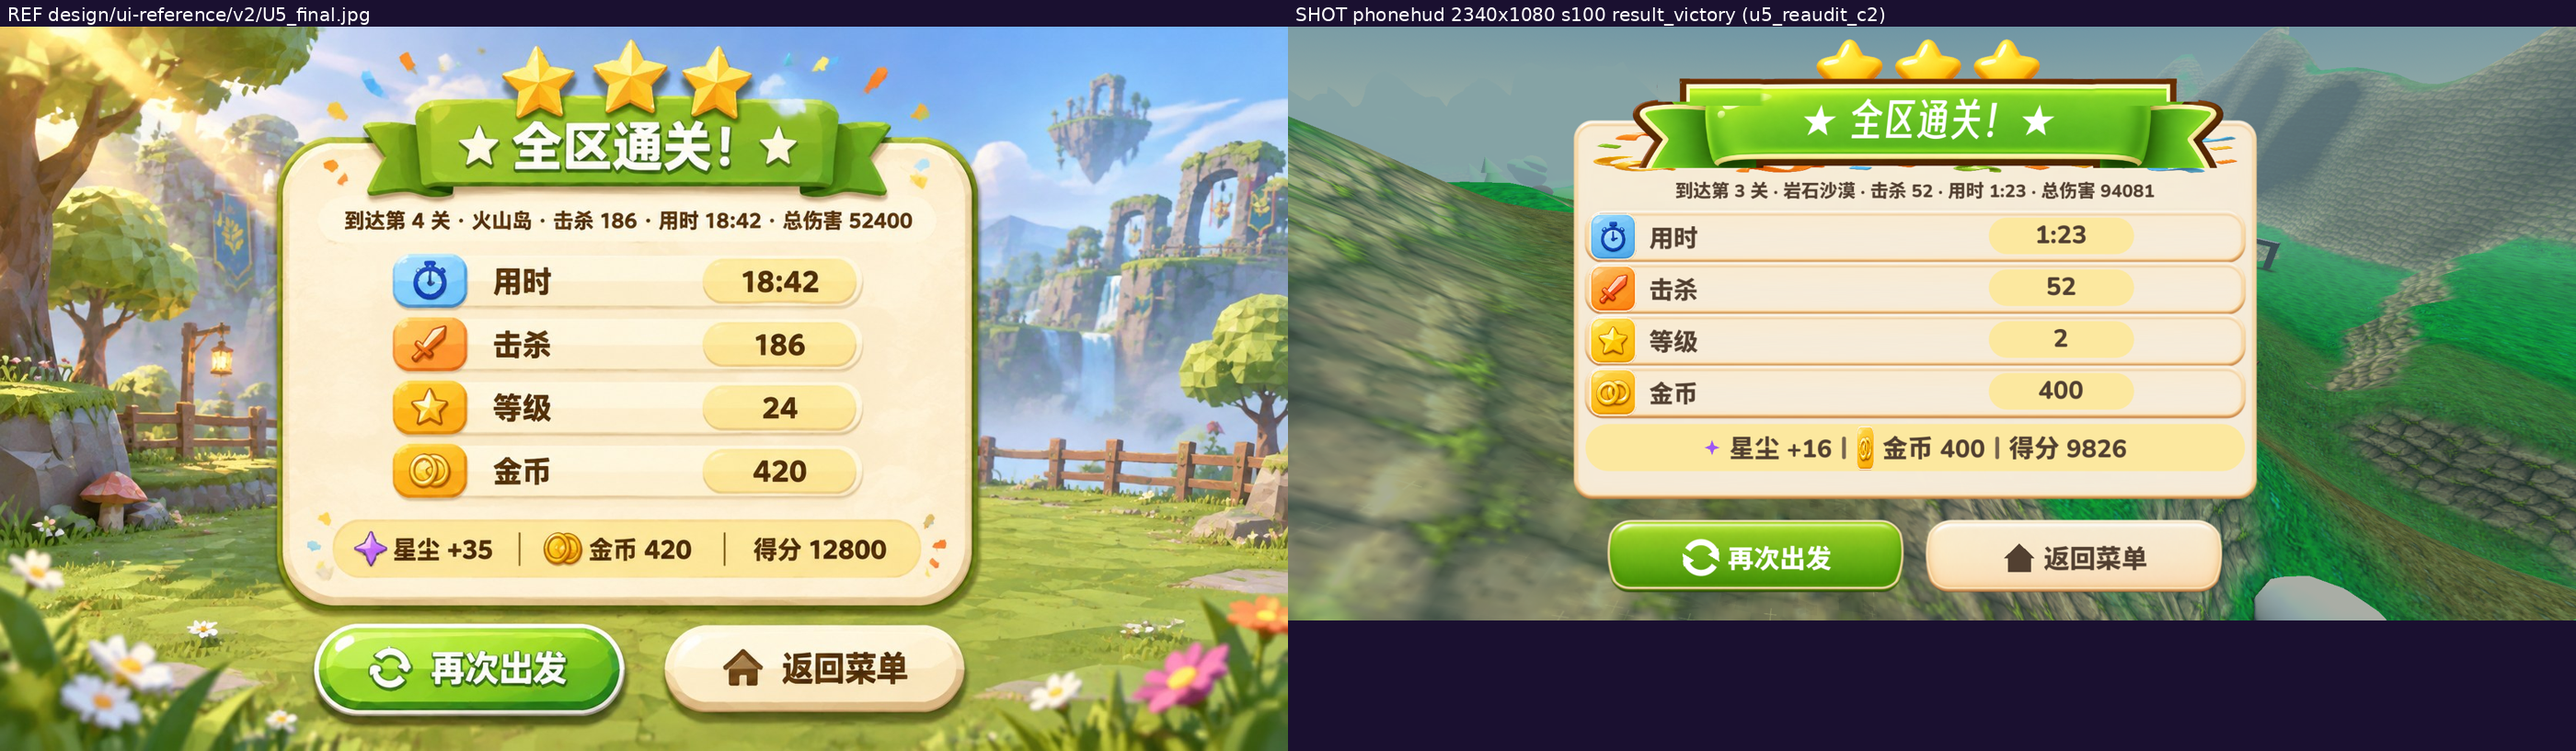
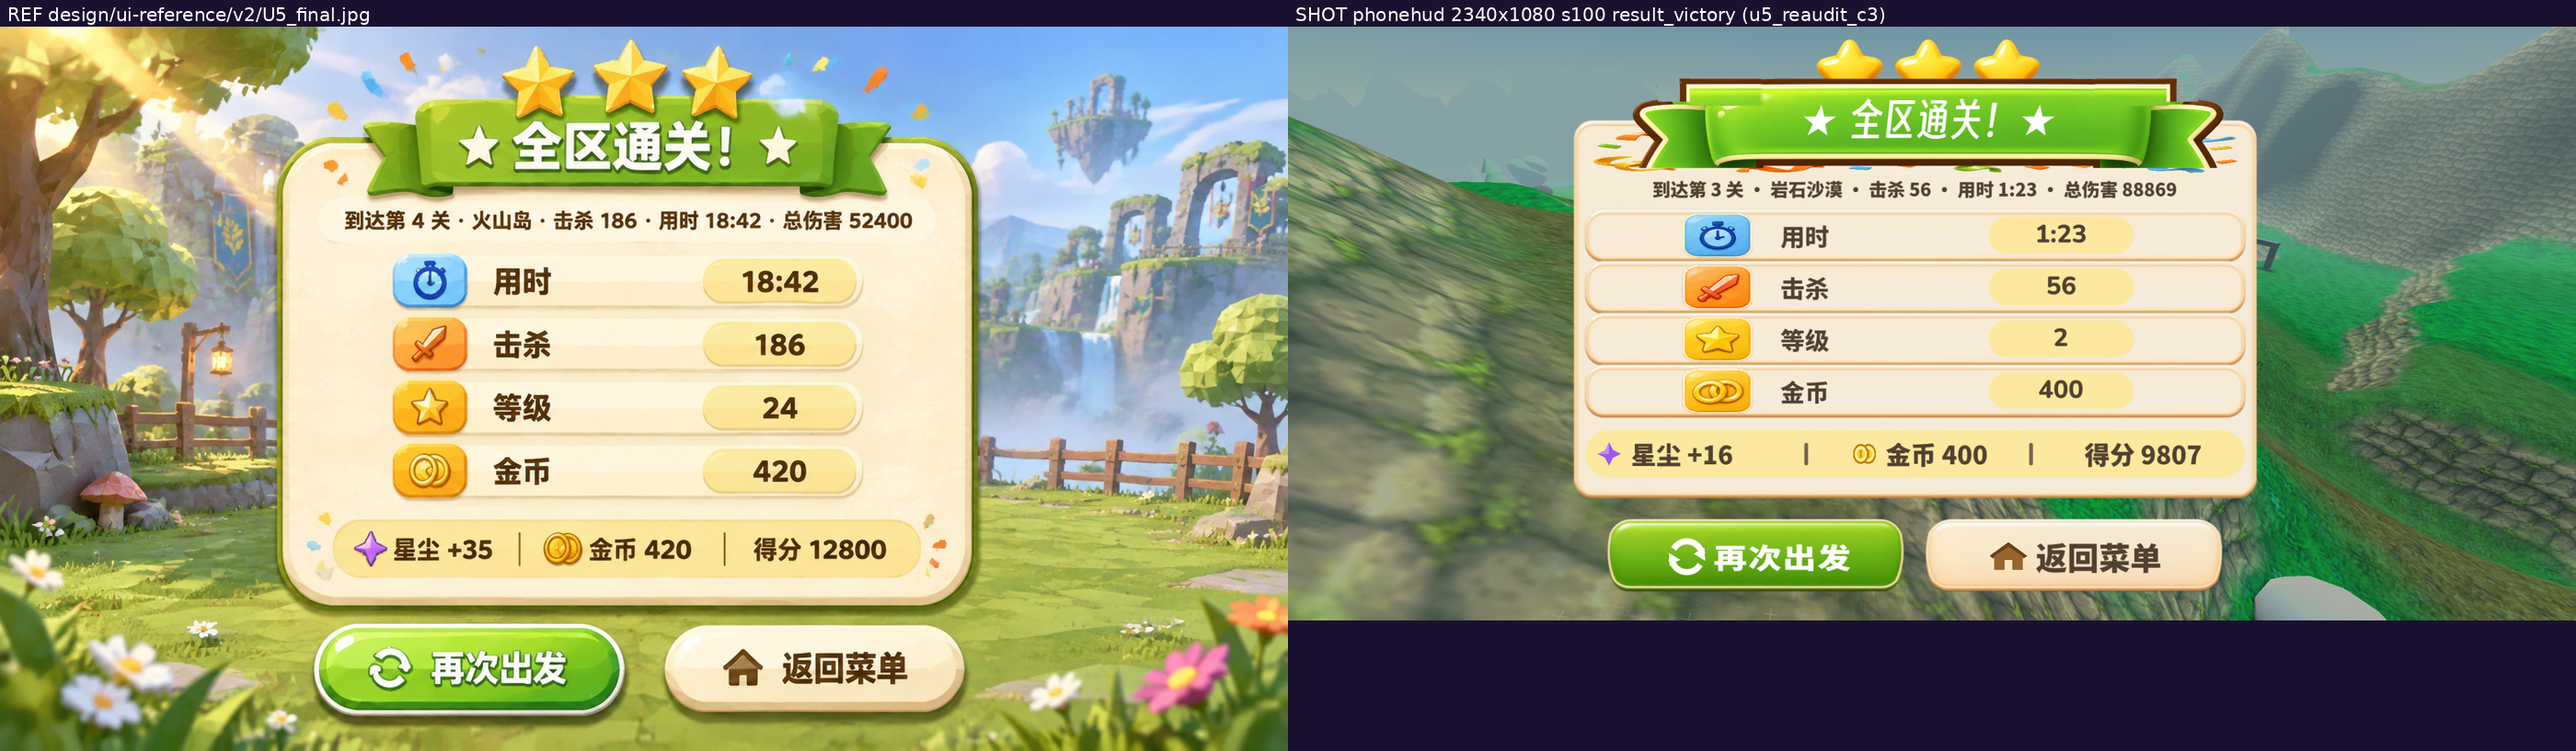
Ledger: U5 re-audit round 3 verdict (not closed), round-4 brief drafted; compare U5/U5_2400 rebuilt from c3 shots

Changed region(s): [[0.5904, 0.2448, 0.87, 0.7956]]

diff --git a/design/ui-alignment-progress.md b/design/ui-alignment-progress.md
@@ -1199,3 +1199,25 @@ U1 已重开，U3 不得开工（见「关闭门」）。第 9 轮：2340 复验
 - 同步：NUC .git 反向回 VM 后 reset 至 1b22377（43f35d9 在祖先链内），改动原样恢复（diff 96+/30- 一致），sync_to_nuc parity 906 文件 0 diff。
 - Parse 门 Test/u5_reaudit_c3_parse.sh：world.gd rc=0、ui_icon.gd rc=0；缎带 .ctex sidecar d20f98ff 在位。
 - 提交 2ede84f 已推送（ls-remote 核验）；验证批 Test/u5_reaudit_c3_run.sh 02:25:54 起跑，.done 路径 Test/out/u5_reaudit_c3.done，预计 ALLDONE 约 03:00–03:05。**下一轮只监看批、取新拍复测、重建 compare、亲检再议签核。** U5 未关闭；U1 复审仍不开。
+
+## U5 复审 Codex 第三轮验收（2026-11-16 03:1x–03:4x 轮，worker 同法复测＋亲检）
+
+- 批次 Test/out/u5_reaudit_c3.done ALLDONE 02:58:10：2400 s100 **1564/0**、2340 s100 **1564/0**（FAIL 行 0 条；两档计数均为 1564，无第一轮式互换）。双档新拍＋双日志已拉回逐字节核验（2340 md5 065f7c25、2400 md5 ae05df82；日志 820076/815791 字节，DONE 行与 FAIL 数核对一致）。
+- 交付核实：Codex 会话确于 01:24:22 退出（rollout 最后事件，无后续）；changes.md 为主控 02:21 按 diff 重建（96+/30-）。worker 逐行复核 diff 与 changes.md 七项逐一在位、均为 P5 专属、桌面分支不动、玩法数值不动。同步铁律：NUC .git 反向 rsync 回本机（chown 告警 rc=23 属已知权限噪音），`git reset --hard` 至 c896b6a，工作树干净（M world.gd／ui_icon.gd 与 2ede84f 内容一致、复位后消失）。
+- 复测（2340＋2400 双档，同法；脚本 .tmp/scan_u5_reaudit_c3.py、.tmp/scan_u5_reaudit_c3_scan2.py（scan2 加空值守卫，panel_y 在新拍上取空——tile 右移后 x=0.30W 列被 tile 打断、50 行连续奶油跑断，属脚本量法问题非画面问题；panel_y 以 scan3 16.20..78.61 为准）、.tmp/u5_reaudit_c2_type{,2}.py、tilex{,2}.py、.tmp/scan_u5_reaudit_c3_extra.py，结果存 .tmp/u5_reaudit_c3_scan*.txt / type*.txt / tilex*.txt / extra.txt）：
+  - ✅ 面板框：22.56..74.79/16.20..78.61 vs 定稿 22.43..74.88/16.37..78.64。保持。
+  - ✅ 行心：值 pill 金填充心 35.05/43.80/52.50/61.25 vs 定稿 34.91/43.62/52.44/61.11（残差 +0.14/+0.18/+0.06/+0.14，第二轮 +0.28/+0.32/+0.20/+0.23）；行距 8.70–8.75 vs 8.73；值 pill 右缘 65.64 vs 66.39（同法；0.75%W 残差，目视贴齐）。
+  - ✅ 汇总带下移落定：scan2 goldblob5 68.06..75.74 vs 定稿 68.01..75.98（第二轮 66.94..74.72）；y 顶差 0.05、底差 0.24%H。
+  - ✅ 行标签字：cap 高 3.80 vs 定稿 3.72–3.83；标签 x 38.33..41.88 vs 38.34..42.64。
+  - ✅ tile：左缘 30.60..30.81 vs 定稿 30.44..30.50（第二轮 23.03 已清）；宽圆角矩形目视确认；高 7.04 vs 7.33%H；宽按高归一后约 +7%（%W 直比受参考 1672×941 与实拍 2340×1080 宽高比不同失真，不作判据）。
+  - ✅ 钮面字：绿钮 4.44 vs 定稿 4.36%H（type2；第二轮 3.98）；奶油钮 5.00 vs 4.89%H（type.py；type2 的 8.06 系钮下深色岩石背景污染，非字高，勿再误判）。
+  - ✅ 再次出发钮 glyph：双弧双箭头，4 倍放大裁切亲验，形状与定稿一致（弧略粗、无描边属扁平/光泽纹理族）。
+  - ✅ 家形图标：双色调＋门洞，4 倍放大裁切亲验，门洞清晰可见；尺寸与钮面比例相当。
+  - ✅ 汇总星：h 3.89 vs 定稿 3.83%H。
+  - ✅ 摘要加粗：目视粗体；同法 dark 像素占比 0.91% vs 定稿 0.75%（面积归一，+21%）。
+  - ✅ 标题字形：6.39 vs 6.38%H。
+  - ❌ **汇总 pill 过宽（第三轮重建新残差）**：pill x 23.12..74.23%W、宽 51.11%W，左右边距仅 0.56%W；定稿右缘 72.19、左缘约 25.12%W，边距约 2.7%W、宽约 47.07%W。裁切亲验：定稿 pill 两侧有明显奶油边距，我方 pill 几乎贴住面板边。根因：三段 EXPAND_FILL 无横向 inset。
+  - ❌ **汇总金币图标偏小（第三轮第 ⑨ 项未达标）**：币面高 2.78 vs 定稿 3.61%H（同法 coin-face mask；目标约 3.5%H）；裁切亲验：我方双币明显小于定稿（约 0.8× 字高 vs 定稿约 1.2×）。
+- 亲检：compare/U5.png 与 compare/U5_2400.png 已以第三轮双档新拍重建（Test/make_compare_u5.py，标签 u5_reaudit_c3），逐项看过——与上述量测一致；2400 腿同残差、无新增项。纹理/素材族仍在范围外（缎带棕色粗描边＋窄折尾、三星 6.48 vs 10.20%H 偏小、钮面/pill 扁平无光泽渐变），不入本轮代码结论。
+- 结论：**U5 未过关闭门**。第三轮十项中八项落定（①汇总带、②行标签字、③汇总字尺寸、④钮面字、⑤双弧 glyph、⑥家形、⑦tile 形、⑧行横向、⑩摘要字重——星已齐，仅币与 pill 宽两项未落定）。第四轮处方两项：汇总 pill 加横向 inset 约每侧 2.1%W（y 带不动）、result_coins 图标放大至约 48 设计 px（星不动、汇总字不动）。派单草稿 `.tmp/u5_reaudit_codex4_brief.md` 已拟好（含验收数值总表与量法警示：汇总带须用 scan2 goldblob5 法、%W 跨宽高比失真、type2 奶油字带污染），**待主控派 Codex 池**；本屏仍不开 U1 复审。Notion 对齐单未动（U5 未关闭）。
+- 本轮提交：本节台账＋重建的 compare/U5.png、compare/U5_2400.png（随本提交推送）；量测脚本与裁切图留 .tmp（u5_reaudit_c3_*）。
